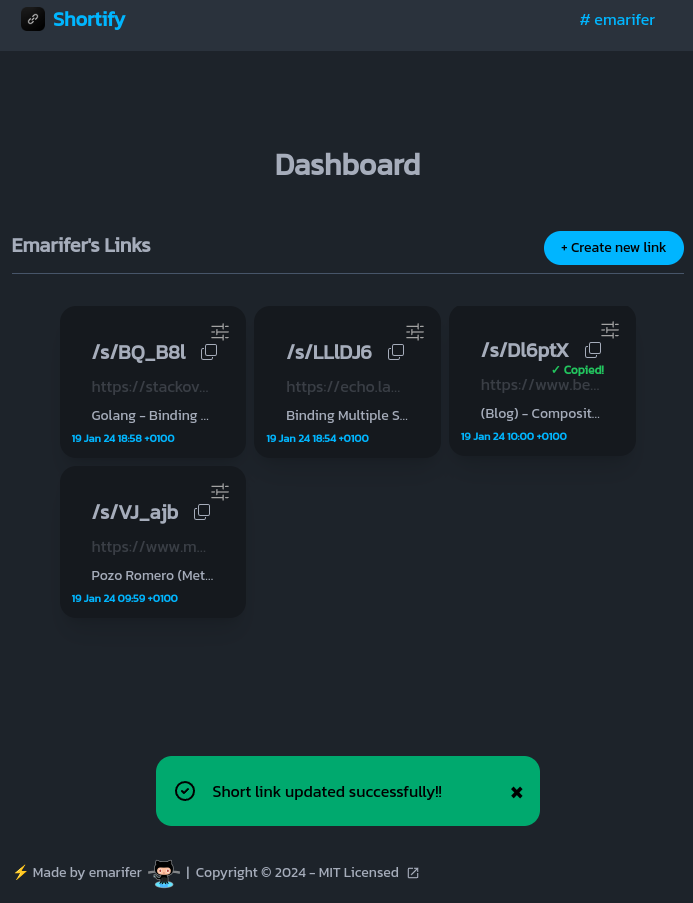
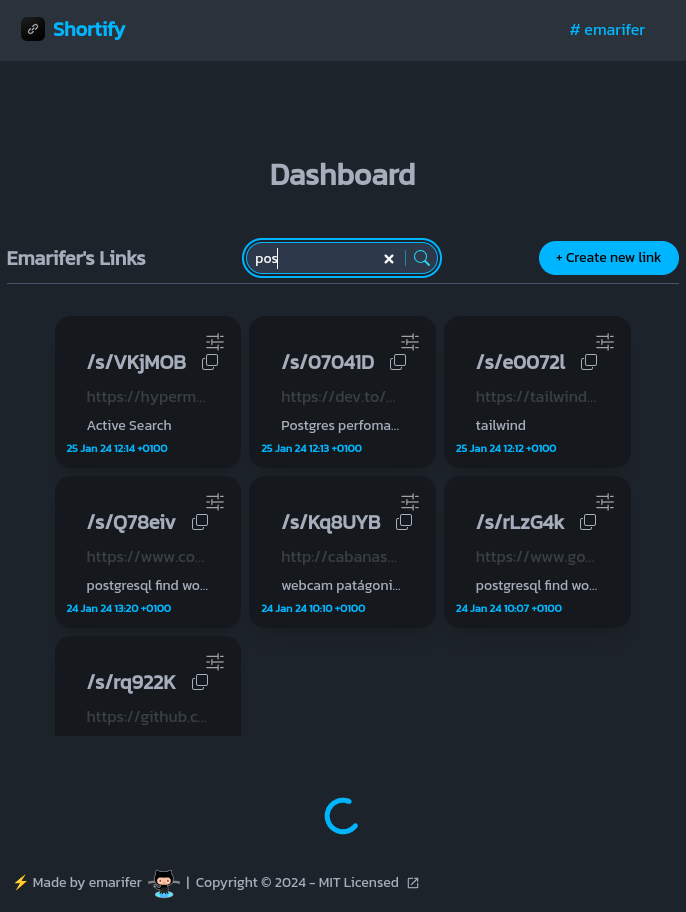
⚒ request indicator and active search added

diff --git a/views/links_views/dashboard_templ.go b/views/links_views/dashboard_templ.go
@@ -49,7 +49,7 @@ func Dashboard(titlePage, host, tz string, links []model.Link) templ.Component {
 		if templ_7745c5c3_Err != nil {
 			return templ_7745c5c3_Err
 		}
-		_, templ_7745c5c3_Err = templ_7745c5c3_Buffer.WriteString("</h2><form action=\"\" method=\"\" class=\"relative\" hx-push-url=\"/dash\"><input hx-get=\"/dash/search\" hx-target=\"#cards\" hx-swap=\"transition:true\" class=\"input input-bordered input-info bg-slate-800 w-48 rounded-full text-sm px-4 pl-2 pr-10 h-8\" type=\"text\" name=\"search\"> <button class=\"absolute top-2 right-2 border-l border-l-cyan-400/50 pl-2\"><svg xmlns=\"http://www.w3.org/2000/svg\" viewBox=\"0 0 16 16\" class=\"w-4 fill-cyan-400\"><path d=\"M11.742 10.344a6.5 6.5 0 1 0-1.397 1.398h-.001q.044.06.098.115l3.85 3.85a1 1 0 0 0 1.415-1.414l-3.85-3.85a1 1 0 0 0-.115-.1zM12 6.5a5.5 5.5 0 1 1-11 0 5.5 5.5 0 0 1 11 0\"></path></svg></button></form><a hx-swap=\"transition:true\" class=\"badge badge-info p-4 hover:scale-[1.1]\" href=\"/dash/create\">")
+		_, templ_7745c5c3_Err = templ_7745c5c3_Buffer.WriteString("</h2><form action=\"/dash\" method=\"get\" class=\"relative\"><input hx-get=\"/dash\" hx-trigger=\"search, keyup delay:500ms changed\" hx-target=\"#cards\" hx-push-url=\"true\" hx-indicator=\"#spinner\" type=\"search\" name=\"search\" class=\"input input-bordered input-info bg-slate-800 w-48 rounded-full text-sm px-4 pl-2 pr-10 h-8\"> <button title=\"Link search\" type=\"submit\" class=\"absolute top-2 right-2 border-l border-l-cyan-400/50 pl-2\"><svg xmlns=\"http://www.w3.org/2000/svg\" viewBox=\"0 0 16 16\" class=\"w-4 fill-cyan-400\"><path d=\"M11.742 10.344a6.5 6.5 0 1 0-1.397 1.398h-.001q.044.06.098.115l3.85 3.85a1 1 0 0 0 1.415-1.414l-3.85-3.85a1 1 0 0 0-.115-.1zM12 6.5a5.5 5.5 0 1 1-11 0 5.5 5.5 0 0 1 11 0\"></path></svg></button></form><a hx-swap=\"transition:true\" class=\"badge badge-info p-4 hover:scale-[1.1]\" href=\"/dash/create\">")
 		if templ_7745c5c3_Err != nil {
 			return templ_7745c5c3_Err
 		}
@@ -71,20 +71,7 @@ func Dashboard(titlePage, host, tz string, links []model.Link) templ.Component {
 			if templ_7745c5c3_Err != nil {
 				return templ_7745c5c3_Err
 			}
-			_, templ_7745c5c3_Err = templ_7745c5c3_Buffer.WriteString("<!--")
-			if templ_7745c5c3_Err != nil {
-				return templ_7745c5c3_Err
-			}
-			templ_7745c5c3_Var5 := ` <ul class="grid grid-cols-3 gap-2">
-					for _, link := range links {
-						@components.Card(host, tz, link)
-					}
-				</ul> `
-			_, templ_7745c5c3_Err = templ_7745c5c3_Buffer.WriteString(templ_7745c5c3_Var5)
-			if templ_7745c5c3_Err != nil {
-				return templ_7745c5c3_Err
-			}
-			_, templ_7745c5c3_Err = templ_7745c5c3_Buffer.WriteString("--></div>")
+			_, templ_7745c5c3_Err = templ_7745c5c3_Buffer.WriteString("</div>")
 			if templ_7745c5c3_Err != nil {
 				return templ_7745c5c3_Err
 			}
@@ -93,8 +80,8 @@ func Dashboard(titlePage, host, tz string, links []model.Link) templ.Component {
 			if templ_7745c5c3_Err != nil {
 				return templ_7745c5c3_Err
 			}
-			templ_7745c5c3_Var6 := `You still don't have any link`
-			_, templ_7745c5c3_Err = templ_7745c5c3_Buffer.WriteString(templ_7745c5c3_Var6)
+			templ_7745c5c3_Var5 := `You still don't have any link`
+			_, templ_7745c5c3_Err = templ_7745c5c3_Buffer.WriteString(templ_7745c5c3_Var5)
 			if templ_7745c5c3_Err != nil {
 				return templ_7745c5c3_Err
 			}
@@ -129,12 +116,12 @@ func DashboardIndex(
 			defer templ.ReleaseBuffer(templ_7745c5c3_Buffer)
 		}
 		ctx = templ.InitializeContext(ctx)
-		templ_7745c5c3_Var7 := templ.GetChildren(ctx)
-		if templ_7745c5c3_Var7 == nil {
-			templ_7745c5c3_Var7 = templ.NopComponent
+		templ_7745c5c3_Var6 := templ.GetChildren(ctx)
+		if templ_7745c5c3_Var6 == nil {
+			templ_7745c5c3_Var6 = templ.NopComponent
 		}
 		ctx = templ.ClearChildren(ctx)
-		templ_7745c5c3_Var8 := templ.ComponentFunc(func(ctx context.Context, templ_7745c5c3_W io.Writer) (templ_7745c5c3_Err error) {
+		templ_7745c5c3_Var7 := templ.ComponentFunc(func(ctx context.Context, templ_7745c5c3_W io.Writer) (templ_7745c5c3_Err error) {
 			templ_7745c5c3_Buffer, templ_7745c5c3_IsBuffer := templ_7745c5c3_W.(*bytes.Buffer)
 			if !templ_7745c5c3_IsBuffer {
 				templ_7745c5c3_Buffer = templ.GetBuffer()
@@ -149,7 +136,7 @@ func DashboardIndex(
 			}
 			return templ_7745c5c3_Err
 		})
-		templ_7745c5c3_Err = layout.Base(title, username, fromProtected, isError, errMsgs, sucMsgs).Render(templ.WithChildren(ctx, templ_7745c5c3_Var8), templ_7745c5c3_Buffer)
+		templ_7745c5c3_Err = layout.Base(title, username, fromProtected, isError, errMsgs, sucMsgs).Render(templ.WithChildren(ctx, templ_7745c5c3_Var7), templ_7745c5c3_Buffer)
 		if templ_7745c5c3_Err != nil {
 			return templ_7745c5c3_Err
 		}

diff --git a/internal/api/links.handlers.go b/internal/api/links.handlers.go
@@ -4,6 +4,7 @@ import (
 	"fmt"
 	"net/http"
 	"strings"
+	"time"
 
 	"github.com/emarifer/url-shortener-echo-templ-htmx/encryption"
 	"github.com/emarifer/url-shortener-echo-templ-htmx/internal/api/dto"
@@ -25,6 +26,35 @@ func (a *API) dashboardHandler(c echo.Context) error {
 
 	ctx := c.Request().Context()
 	userId := c.Get(user_id_key).(string)
+
+	if c.Request().Header.Get("HX-Trigger-Name") == "search" {
+		params := dto.SearchQuery{}
+		binder := &echo.DefaultBinder{}
+		binder.BindQueryParams(c, &params)
+		// fmt.Println(params.Search)
+		searchDescription := strings.Trim(params.Search, " ")
+		// to observe the request indicator
+		time.Sleep(1 * time.Second)
+
+		searchedLinks, err := a.serv.SearchLinksByDescription(
+			ctx, searchDescription, userId,
+		)
+		if err != nil {
+
+			return echo.NewHTTPError(
+				echo.ErrInternalServerError.Code,
+				fmt.Sprintf(
+					"something went wrong: %s",
+					err,
+				))
+		}
+
+		return a.renderView(c, components.CardList(
+			c.Scheme()+"://"+c.Request().Host,
+			c.Get(tzone_key).(string),
+			searchedLinks,
+		))
+	}
 
 	titlePage := fmt.Sprintf(
 		"| %s's Links",
@@ -56,54 +86,6 @@ func (a *API) dashboardHandler(c echo.Context) error {
 			links,
 		),
 	))
-}
-
-func (a *API) searchLinksHandler(c echo.Context) error {
-	isError = false
-
-	ctx := c.Request().Context()
-	userId := c.Get(user_id_key).(string)
-
-	/* titlePage := fmt.Sprintf(
-		"| %s's Links",
-		cases.Title(language.English).String(c.Get(username_key).(string)),
-	) */
-
-	searchDescription := strings.Trim(c.FormValue("search"), " ")
-
-	searchedLinks, err := a.serv.SearchLinksByDescription(
-		ctx, searchDescription, userId,
-	)
-	if err != nil {
-
-		return echo.NewHTTPError(
-			echo.ErrInternalServerError.Code,
-			fmt.Sprintf(
-				"something went wrong: %s",
-				err,
-			))
-	}
-
-	return a.renderView(c, components.CardList(
-		c.Scheme()+"://"+c.Request().Host,
-		c.Get(tzone_key).(string),
-		searchedLinks,
-	))
-
-	/* return a.renderView(c, links_views.DashboardIndex(
-		titlePage,
-		c.Get(username_key).(string),
-		fromProtected,
-		isError,
-		getFlashmessages(c, "error"),
-		getFlashmessages(c, "success"),
-		links_views.Dashboard(
-			titlePage,
-			c.Scheme()+"://"+c.Request().Host,
-			c.Get(tzone_key).(string),
-			searchedLinks,
-		),
-	)) */
 }
 
 func (a *API) createLinkHandler(c echo.Context) error {

diff --git a/views/auth_views/login_templ.go b/views/auth_views/login_templ.go
@@ -84,7 +84,17 @@ func Login(fromProtected bool) templ.Component {
 				return templ_7745c5c3_Err
 			}
 		}
-		_, templ_7745c5c3_Err = templ_7745c5c3_Buffer.WriteString("> <button title=\"View password\" type=\"button\" class=\"absolute top-12 right-3\" _=\"on click if [type of previous &lt;input/&gt;] == &#39;password&#39; then remove [@type=password] from previous &lt;input/&gt; else tell previous &lt;input/&gt; toggle [@type=password] end\"><svg xmlns=\"http://www.w3.org/2000/svg\" width=\"16\" height=\"16\" fill=\"currentColor\" viewBox=\"0 0 16 16\"><path d=\"M10.5 8a2.5 2.5 0 1 1-5 0 2.5 2.5 0 0 1 5 0\"></path> <path d=\"M0 8s3-5.5 8-5.5S16 8 16 8s-3 5.5-8 5.5S0 8 0 8m8 3.5a3.5 3.5 0 1 0 0-7 3.5 3.5 0 0 0 0 7\"></path></svg></button></label><footer class=\"card-actions justify-end\"><button class=\"badge badge-primary px-6 py-4 hover:scale-[1.1]\"")
+		_, templ_7745c5c3_Err = templ_7745c5c3_Buffer.WriteString("> <button title=\"View password\" type=\"button\"")
+		if templ_7745c5c3_Err != nil {
+			return templ_7745c5c3_Err
+		}
+		if fromProtected {
+			_, templ_7745c5c3_Err = templ_7745c5c3_Buffer.WriteString(" disabled")
+			if templ_7745c5c3_Err != nil {
+				return templ_7745c5c3_Err
+			}
+		}
+		_, templ_7745c5c3_Err = templ_7745c5c3_Buffer.WriteString(" class=\"absolute top-12 right-3\" _=\"on click if [type of previous &lt;input/&gt;] == &#39;password&#39; then remove [@type=password] from previous &lt;input/&gt; else tell previous &lt;input/&gt; toggle [@type=password] end\"><svg xmlns=\"http://www.w3.org/2000/svg\" width=\"16\" height=\"16\" fill=\"currentColor\" viewBox=\"0 0 16 16\"><path d=\"M10.5 8a2.5 2.5 0 1 1-5 0 2.5 2.5 0 0 1 5 0\"></path> <path d=\"M0 8s3-5.5 8-5.5S16 8 16 8s-3 5.5-8 5.5S0 8 0 8m8 3.5a3.5 3.5 0 1 0 0-7 3.5 3.5 0 0 0 0 7\"></path></svg></button></label><footer class=\"card-actions justify-end\"><button class=\"badge badge-primary px-6 py-4 hover:scale-[1.1]\"")
 		if templ_7745c5c3_Err != nil {
 			return templ_7745c5c3_Err
 		}

diff --git a/views/layout/base.layout_templ.go b/views/layout/base.layout_templ.go
@@ -110,6 +110,10 @@ func Base(title, username string, fromProtected, isError bool, errMsgs, sucMsgs 
 		if templ_7745c5c3_Err != nil {
 			return templ_7745c5c3_Err
 		}
+		_, templ_7745c5c3_Err = templ_7745c5c3_Buffer.WriteString("<div class=\"flex justify-center absolute bottom-20 right-0 left-0\"><span id=\"spinner\" class=\"htmx-indicator loading loading-spinner loading-lg text-info\"></span></div>")
+		if templ_7745c5c3_Err != nil {
+			return templ_7745c5c3_Err
+		}
 		templ_7745c5c3_Err = components.FlashMessages(errMsgs, sucMsgs).Render(ctx, templ_7745c5c3_Buffer)
 		if templ_7745c5c3_Err != nil {
 			return templ_7745c5c3_Err

diff --git a/main.go b/main.go
@@ -91,6 +91,11 @@ onclick="
 
 USING INDEXES TO SPEED UP QUERIES IN POSTGRESQL:
 https://niallburkley.com/blog/index-columns-for-like-in-postgres/
+https://www.postgresql.org/docs/current/textsearch-indexes.html
+https://www.cybertec-postgresql.com/en/postgresql-more-performance-for-like-and-ilike-statements/
+https://www.yugabyte.com/blog/postgresql-like-query-performance-variations/
+https://www.commandprompt.com/education/select-if-string-contains-a-substring-match-in-postgresql/
+https://dev.to/____marcell/fast-fulltext-search-with-postgres-gin-index-22n5
 
 */
 

diff --git a/internal/api/routes.go b/internal/api/routes.go
@@ -13,7 +13,6 @@ func (a *API) RegisterRoutes(e *echo.Echo) {
 	protectedGroup := e.Group("/dash", a.authMiddleware)
 	/* ↓ Protected Routes ↓ */
 	protectedGroup.GET("", a.dashboardHandler)
-	protectedGroup.GET("/search", a.searchLinksHandler)
 	protectedGroup.GET("/create", a.createLinkHandler)
 	protectedGroup.POST("/create", a.createLinkHandler)
 	protectedGroup.GET("/randomize", a.createRandomSlugHandler)

diff --git a/internal/api/dto/search.query.go b/internal/api/dto/search.query.go
@@ -1,0 +1,5 @@
+package dto
+
+type SearchQuery struct {
+	Search string `query:"search"`
+}
